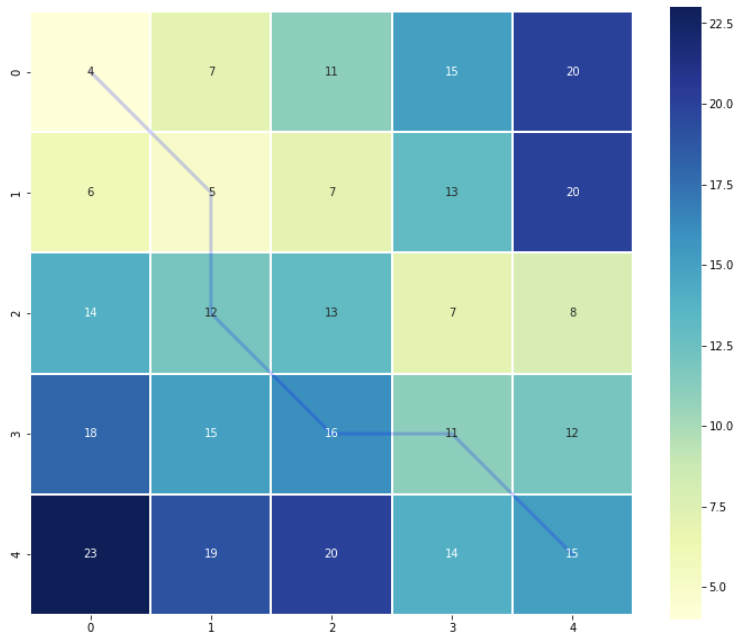
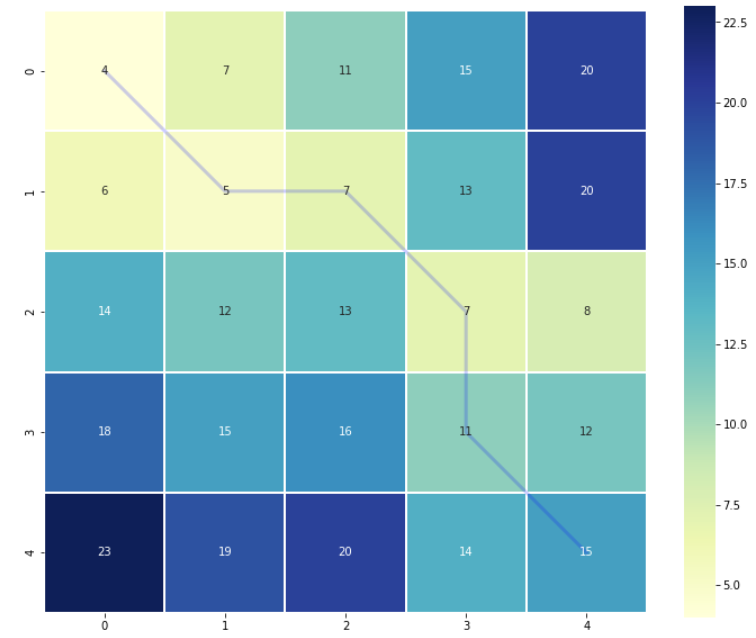
Solve the error observed in the path representation.

diff --git a/dtwParallel/dtw_functions.py b/dtwParallel/dtw_functions.py
@@ -55,8 +55,8 @@ def plot_cost_matrix(warp_path, cost):
     ax = sbn.heatmap(cost, annot=True, square=True, linewidths=0.1, cmap="YlGnBu", ax=ax)
 
     # Get the warp path in x and y directions
-    path_x = [p[0] for p in warp_path]
-    path_y = [p[1] for p in warp_path]
+    path_x = [p[1] for p in warp_path]
+    path_y = [p[0] for p in warp_path]
 
     # Align the path from the center of each cell
     path_xx = [x + 0.5 for x in path_x]

diff --git a/dtwParallel/utils.py b/dtwParallel/utils.py
@@ -42,7 +42,7 @@ DTW_USAGE_MSG = \
     
 DTW_VERSION_MSG = \
 """
-    %(prog)s 0.9.13
+    %(prog)s 0.9.14
 """
     
 

diff --git a/dtwParallel/_version.py b/dtwParallel/_version.py
@@ -1,1 +1,1 @@
-__version__ = "0.9.13"
+__version__ = "0.9.14"

diff --git a/README.md b/README.md
@@ -353,7 +353,7 @@ Based on the previous scheme, this package can be used in three different contex
    ![Example_2.png](./Images/Example_2.png)
 
    ```
-   [out]: 22.546443515422986
+   [out]: 21.801217248966267
    ```
 
    **Example 7.** For a tensor formed by N x T x F, where N is the number of observations, T the time instants and F the characteristics.
